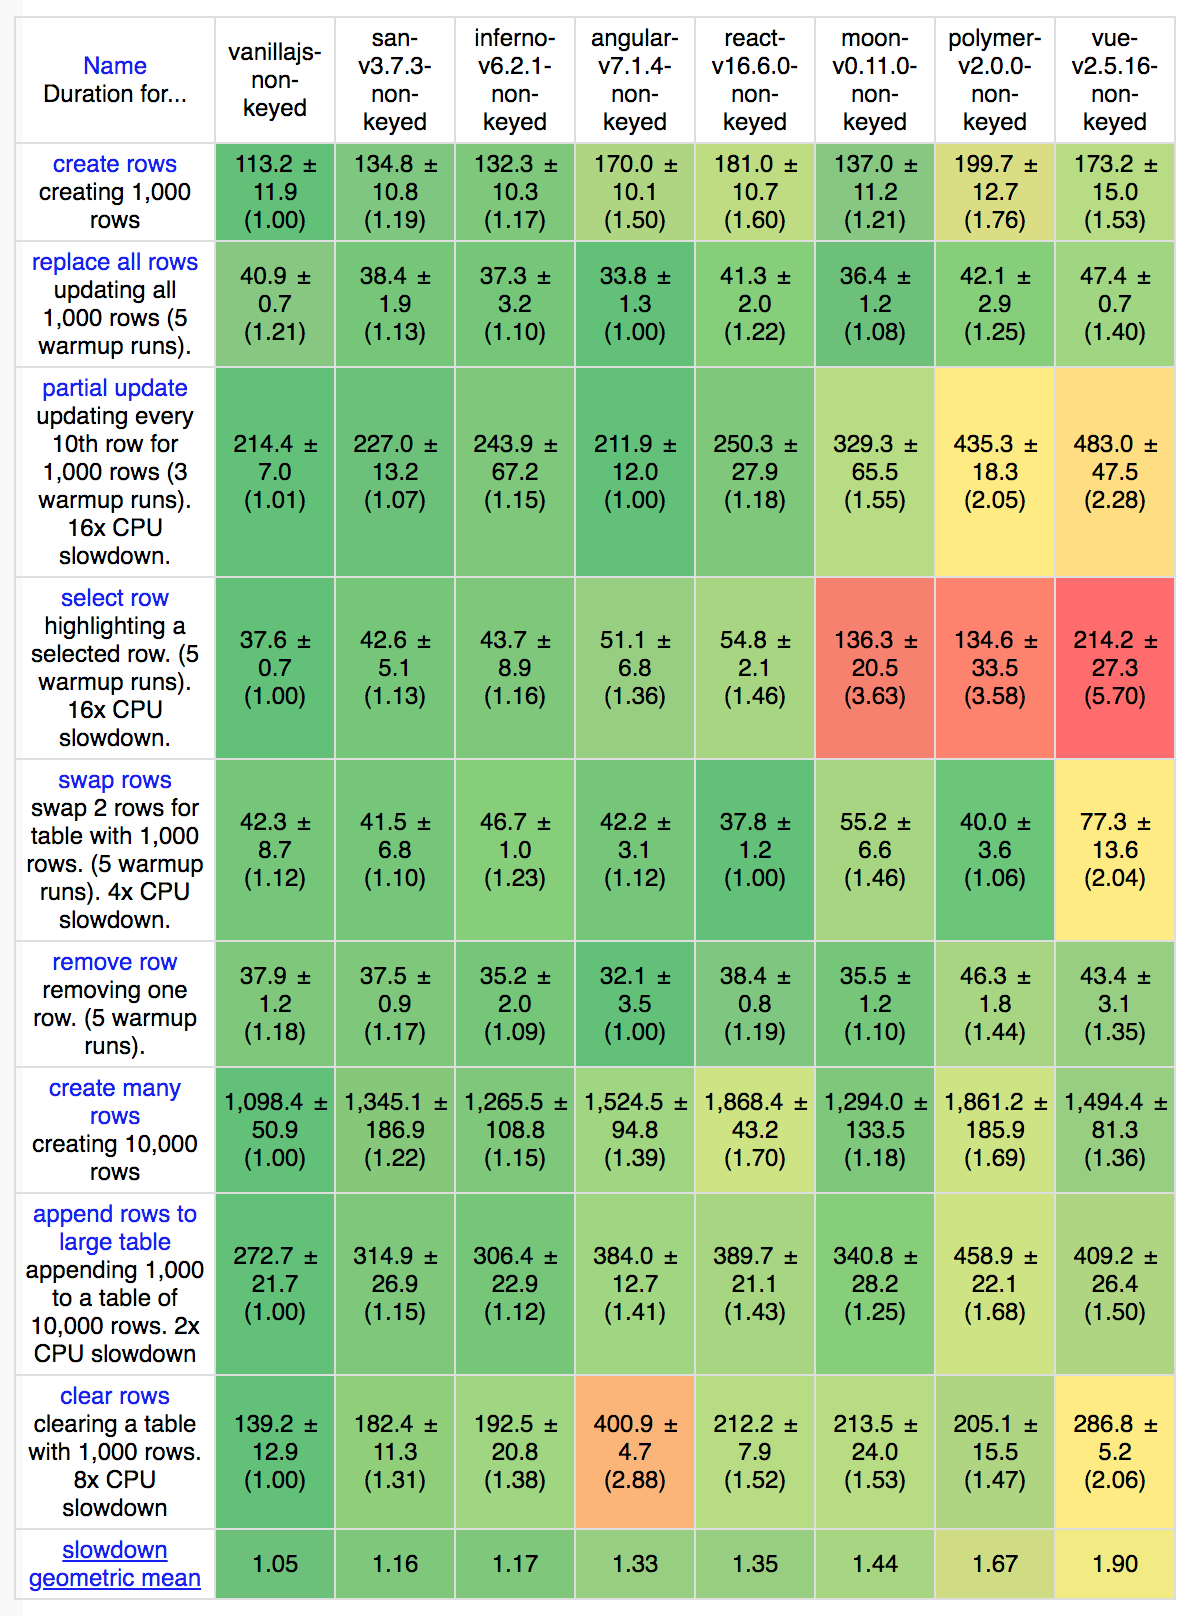
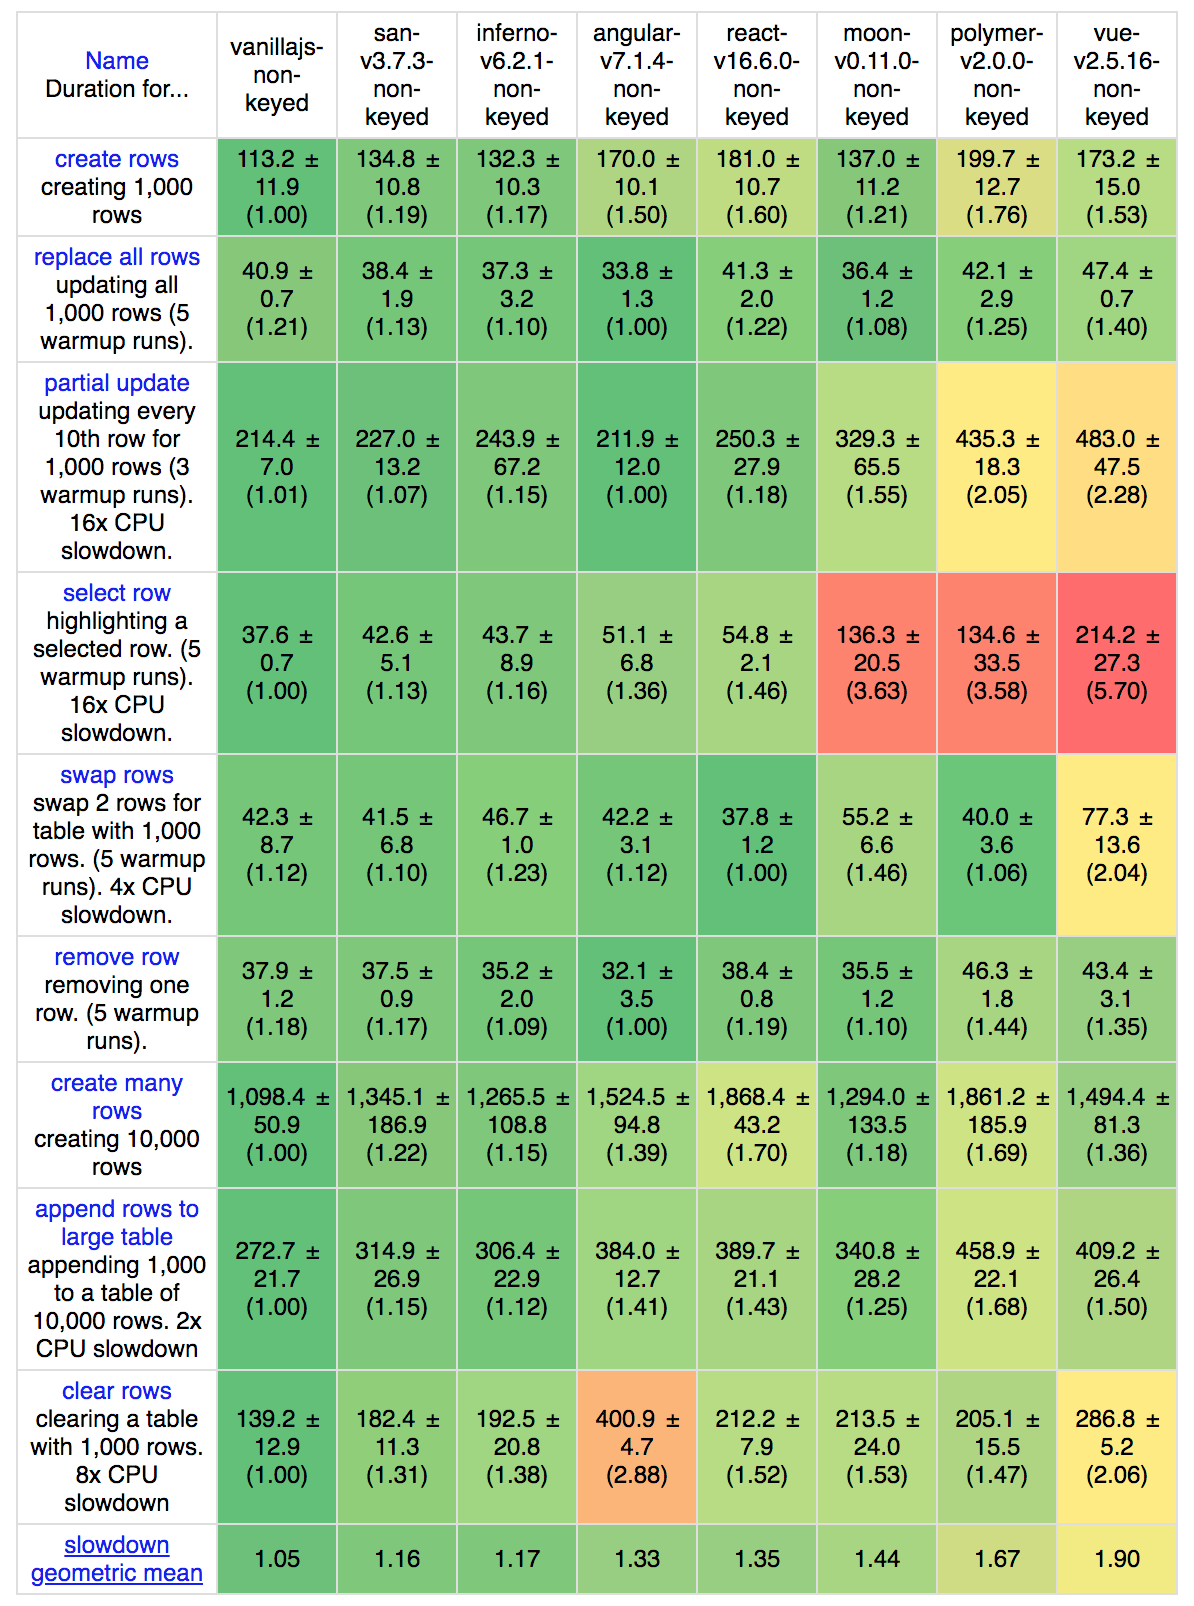
update san-perf image

diff --git a/themes/san/source/css/style.css b/themes/san/source/css/style.css
@@ -238,8 +238,8 @@ main {
 .san-perf {
     display: block;
     margin: 60px auto;
-    width: 728px;
-    height: 1150px;
+    width: 597px;
+    height: 803px;
 }
 .example-main {
     background: #00222d;
